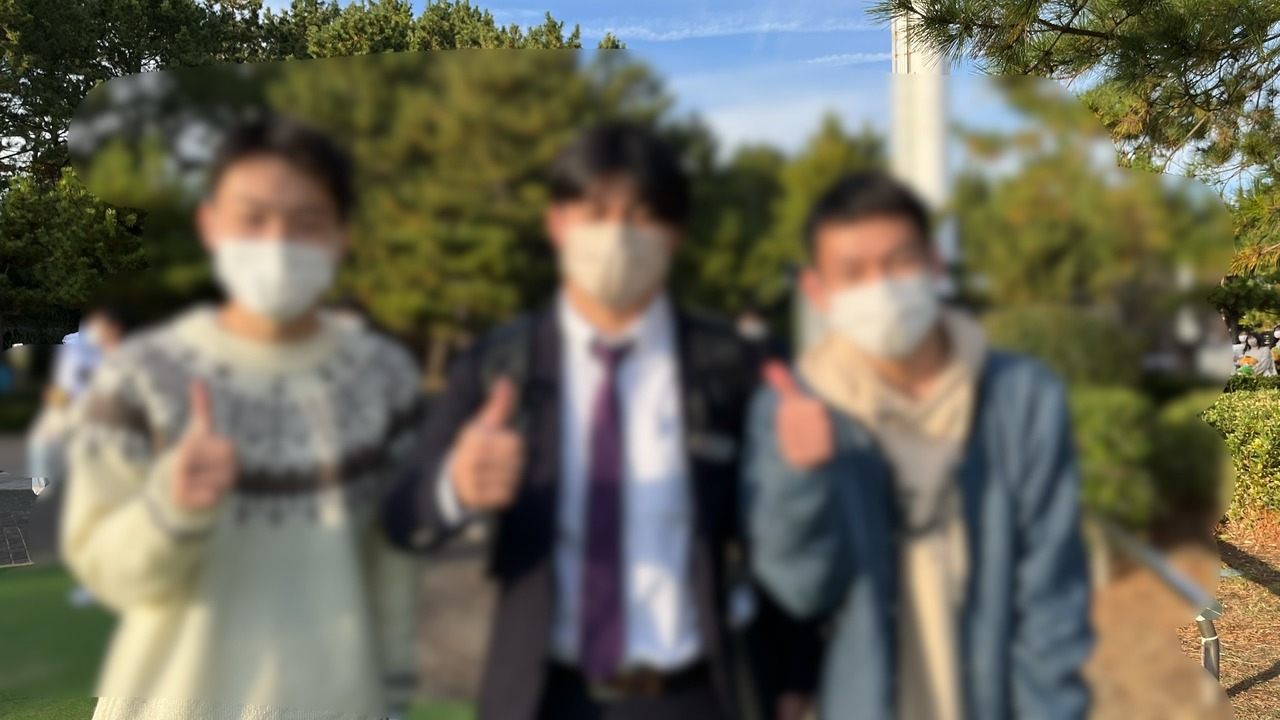
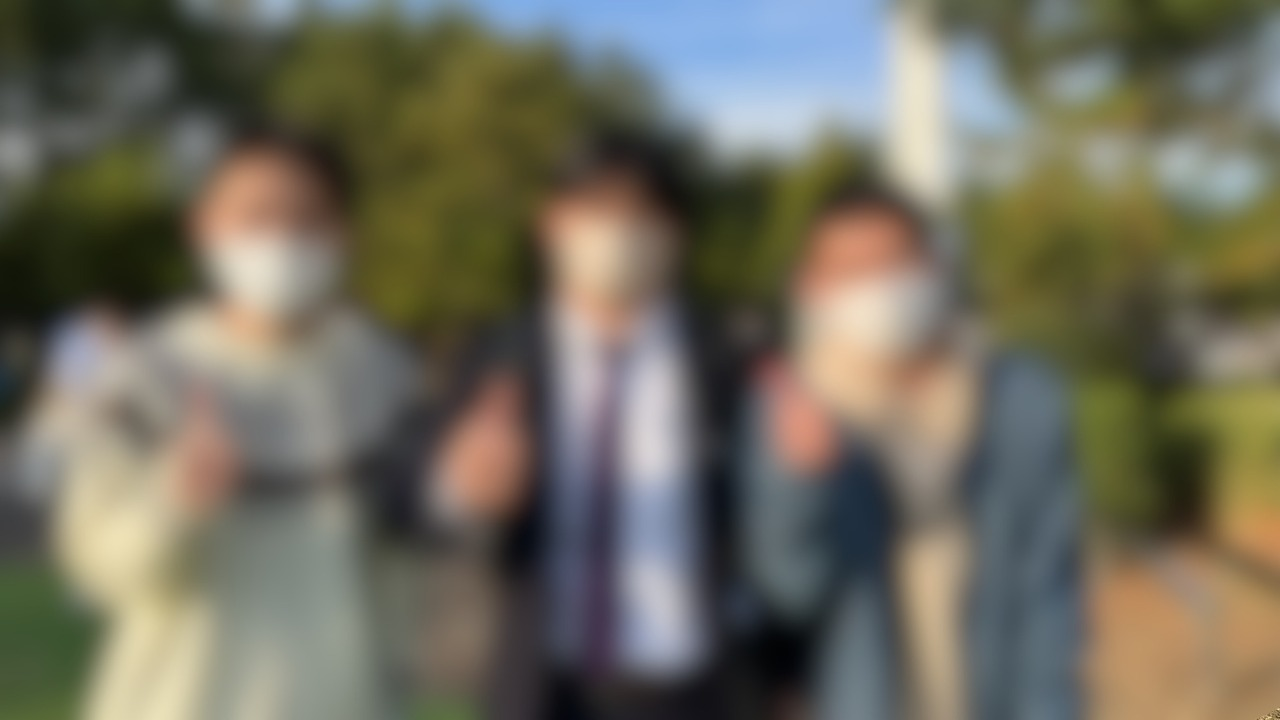
Update homepage

diff --git a/pages/4_MY_ACTIVITY_RECORD.py b/pages/4_MY_ACTIVITY_RECORD.py
@@ -241,7 +241,7 @@ st.space("medium")
 #修学旅行----------------------
 display_images_2col(
     image_list=[
-        "photo/修学旅行/t1.jpg","photo/修学旅行/t2.jpg","photo/修学旅行/t3.jpg","photo/修学旅行/t4.jpg"
+        "photo/修学旅行/t1.jpg","photo/修学旅行/t2.jpg","photo/修学旅行/t3.jpg"
     ],
     caption="下妻第一高等学校修学旅行",
     width=300
